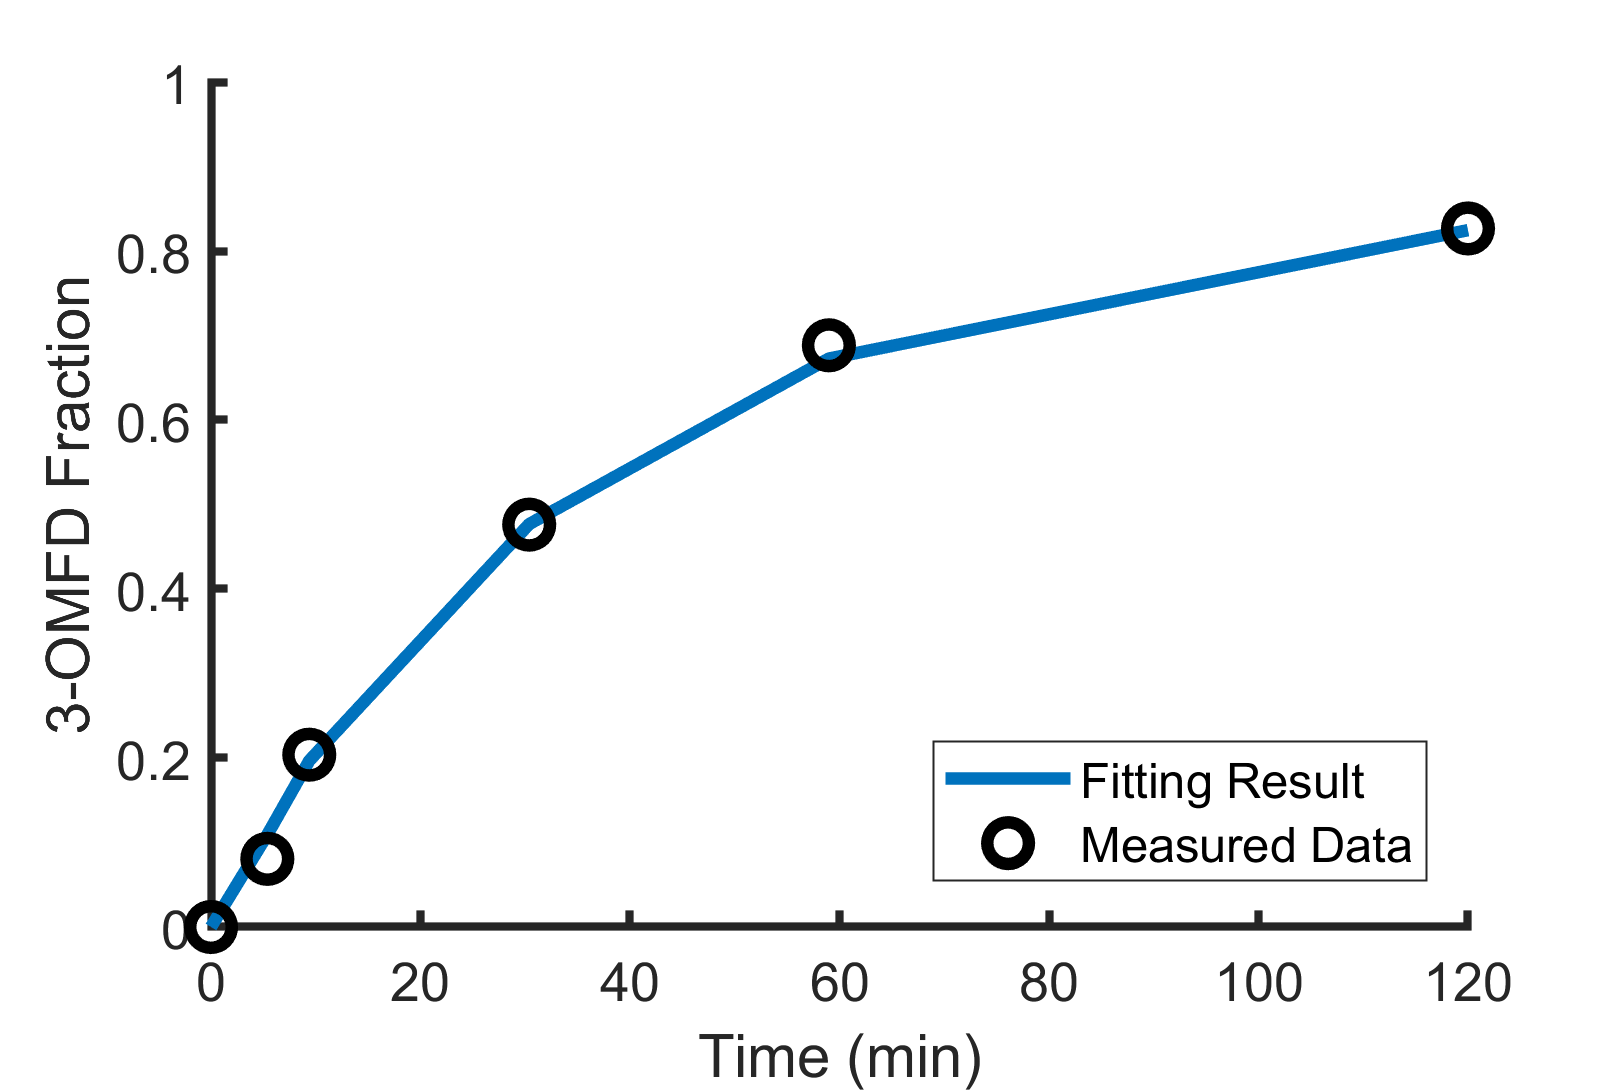
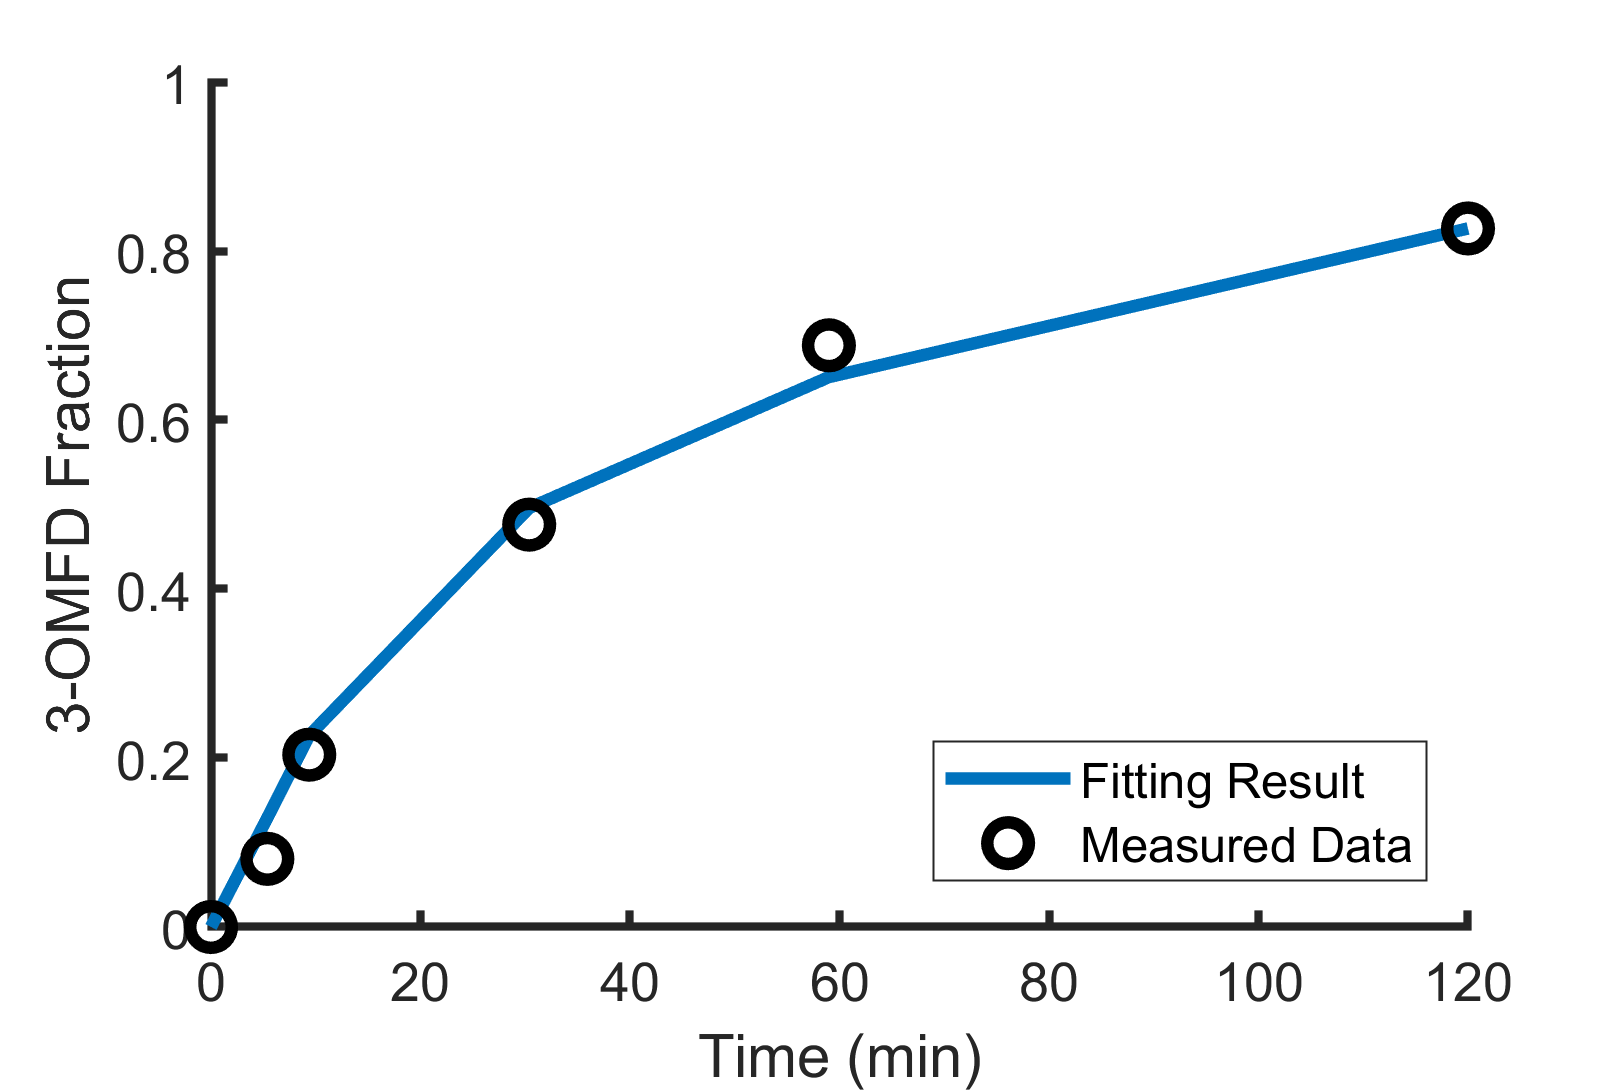
Small Figure changes, adding debug/loging output

diff --git a/swain_corban_huang.m b/swain_corban_huang.m
@@ -1,15 +1,30 @@
+%% IMPLEMENTATION OF HUANG, 1991
+% MATLAB implementation of the multi-compartment model of FDOPA activity in
+% the striatum as observed by PET. This model was originally concieved by
+% Sung-cheng Huang and coworkes [1]. Through the following code, figues, 4, 
+% 5, and 6B along with the underlying model are reproduced.
+% 
+% by Corban Swain
+% November 7 - 14, 2017
+% for 20.420 (MIT Class)
+%
+% 1. Huang, Sung-Cheng, et al. "Kinetics and modeling of L-6-[18F] 
+% fluoro-dopa in human positron emission tomographic studies." Journal of 
+% Cerebral Blood Flow & Metabolism 11.6 (1991): 898-913.
+%%
 function swain_corban_huang
-
 function main
-    cleanup; % close all;
+    cleanup; close all;
+    fprintf('Beginning Script...\n');
     corban_figure_defaults;
     figstosim = 4:6;
     for i = figstosim
-        fprintf('Running Figure %d\n', i);
+        fprintf('\nRunning Figure %d\n', i);
         fh = makefigure(figures{i}());
         figure(fh)
         savefig(fh);
     end
+    fprintf('Done!\n');
 end
 
 %% Global Variables
@@ -36,8 +51,9 @@ csv = importdata('tissue_radioactivity_cerebellum_FIG6.csv');
 Cc_fig6.t = csv.data(:, 1);
 Cc_fig6.y = csv.data(:, 2);
 
-t_templ = linspace(eps, 10, 50)';
-t_templ = [t_templ(1:(end - 1)); linspace(10, 120, 51)'];
+num = 60;
+t_templ = linspace(eps, 10, num)';
+t_templ = [t_templ(1:(end - 1)); linspace(10, 120, num + 1)'];
 %% Figures
 
 figures{4} = @fig4;
@@ -56,11 +72,15 @@ figures{4} = @fig4;
         if loadin && isfile(filename)
             load(filename, varname);            
         else
+            fprintf(['Beginnging Nonlinear Fit for 3-OMFD Reaction ', ...
+                'and Transport Coeffecients...\n']);
             fit_params = nlinfit(t, y, @modelfun, params0, getfitopts);
             fit_params = abs(fit_params);
             save(filename, varname);
         end
         clear varname filename;
+        fprintf('Fitted 3-OMFD Reaction Model Params [kb12 kb2 kb3]:\n');
+        disp(fit_params); 
         omfd_fit_params = fit_params;
         setupfig(fignum, 'Figure 4');
         tfit = omfdfrac_fig4.t + eps;
@@ -91,8 +111,8 @@ figures{5} = @fig5;
         Cfdopa = Cf18(t) - Comfd;
         Comfd_source = struct('t', t, 'y', Comfd);
         Cfd_source = struct('t', t, 'y', Cfdopa);
-%         t = t_templ;
-        t = Cf18_fig5.t + eps;
+        t = t_templ;
+%         t = Cf18_fig5.t + eps;
         Comfd = modelfun_omfd(fit_params, t, 1);
         Cfdopa = Cf18(t) - Comfd;
         ps.x = {Cf18_fig5.t, t, t};
@@ -127,6 +147,8 @@ figures{6} = @fig6;
             end
         else
             % Fitting Partition Coeffecients
+            fprintf(['Beginnging Nonlinear Fit for Plasma/Whole ', ...
+                'Blood Partition Coeffecients...\n']);
             part_coef0 = [1.01, 1.08];
             Cwb = @(p, t) abs(p(1)) * 0.6 * Cfd(t) + abs(p(2)) * Comfd(t);
             fit_part_coeff = nlinfit(Cf18_wb_fig3.t, Cf18_wb_fig3.y, ...
@@ -139,7 +161,8 @@ figures{6} = @fig6;
             end
         end
         clear filename varnames;
-        
+        fprintf('Fitted Partition Coeffeceints [p1 p2]:\n');
+        disp(fit_part_coeff);
         function [stri_activity, C] = modelfun_s(p, t)
             p = [p, 0];
             C = modelfun_striatum(p, t);
@@ -150,6 +173,7 @@ figures{6} = @fig6;
             cere_activity = sum(C, 2) + Cbackground(t);
         end
         
+
         varnames = {'fit_params', 't', 'y', 'modelfun'};
         filename = 'figure6_cache_2.mat';
         if loadin && isfile(filename)
@@ -158,6 +182,8 @@ figures{6} = @fig6;
             end
         else
             % Fitting Cerebellal and Striatal Activities
+            fprintf(['Beginnging Nonlinear Fits for Cerebellal ', ...
+                'and Striatal Activities...\n']);
             n = 1;
             t{n} = Cs_fig6.t; y{n} = Cs_fig6.y;
             modelfun{n} = @modelfun_s;
@@ -166,8 +192,7 @@ figures{6} = @fig6;
             t{n} = Cc_fig6.t; y{n} = Cc_fig6.y;
             modelfun{n} = @modelfun_c;
             params0{n} = [0.0352, 0.0569]; 
-            fit_params = cell(n, 1); tout = fit_params; 
-            ytot_out = tout; ycomp_out = tout;
+            fit_params = cell(n, 1);
             for i = 1:n
                 fit_params{i} = nlinfit(t{i}, y{i}, modelfun{i}, ...
                     params0{i}, getfitopts);
@@ -179,22 +204,31 @@ figures{6} = @fig6;
             end
         end
         clear filename varnames;
-        
-        for i = 1:length(fit_params)
-%             tout{i} = t_templ;
+        fprintf('Fitted STRIATAL Model Params [k1 k2 k3]:\n');
+        disp(fit_params{1});  
+        fprintf('Fitted CEREBELLAL Model Params [Kp1 kp2]:\n');
+        disp(fit_params{2});
+        n = length(fit_params);
+        tout = cell(n, 1); 
+        ytot_out = tout; ycomp_out = tout;
+        for i = 1:n
+            % QUESTION - Plots look weird with t_templ ... why?
             tout{i} = t{i} + eps;
-            [ytot_out{i},  ycomp_out{i}] ...
+            [ytot_out{i},  ~] ...
                 = modelfun{i}(fit_params{i}, tout{i});  
+            tout{i} = t_templ;
+            [~, ycomp_out{i}] ...
+                = modelfun{i}(fit_params{i}, tout{i});
         end
         
         % Preparing plot and figure
         ps.x{1} = t{1}; ps.y{1} = y{1}; % original striatal
         ps.x{2} = t{2}; ps.y{2} = y{2}; % original cerebral
-        ps.x{3} = tout{1}; ps.y{3} = ytot_out{1}; % fitted striatal
-        ps.x{4} = tout{2}; ps.y{4} = ytot_out{2}; % fitted cerebral
-        ps.x{5} = tout{1};
+        ps.x{3} = t{1} + eps; ps.y{3} = ytot_out{1}; % fitted striatal
+        ps.x{4} = t{2} + eps; ps.y{4} = ytot_out{2}; % fitted cerebral
+        ps.x{5} = t_templ;
         ps.y{5} = ycomp_out{1}(:,3); % 3-omfd
-        ps.x{6} = tout{1};
+        ps.x{6} = t_templ;
         ps.y{6} = sum(ycomp_out{1}(:,[1, 3]), 2); % 3-omfd + fdopa 
         ps.xlim = [0 120]; ps.ylim = [0 0.3];
         ps.grid = 'off';
@@ -205,7 +239,7 @@ figures{6} = @fig6;
             'Striatal 3-OMFD & FDOPA'};
         ps.legend_loc = 'northeastoutside';
         ps.cycle_len = 1;
-        ps.linespec =        {'ks','ko','-k','-k','--','--'};
+        ps.linespec =        {'ks','ko','-k','-k',':',':'};
         ps.markerfacecolor = {  'k','k', [], [],  [],  []};
         ps.markersize =      {   8,   8, [], [],  [],  []};
         ps.linewidth =       {   1,   1, [], [],  [],  []};
@@ -231,7 +265,8 @@ end
 %% Settings
 function fitopts = getfitopts
 fitopts = statset('RobustWgtFun', 'fair', ...
-    'Display', 'final');
+    'Display', 'final', ...
+    'DerivStep', eps .^ (1 / 3));
 end
 
 %% Data Interpolators
@@ -312,44 +347,37 @@ end
 
 %% Model Functions
 function opts = getodeopts(nvars)   
-tol = 1e-6;
+tol = 1e-9;
 opts = odeset('RelTol', tol,...
     'AbsTol',tol, ...
     'NonNegative', 1:nvars);    
 end
 
-function Y = modelfun_template(p, t, y_ind_out, nvars, odefun)
+function [Y, t] = modelfun_template(p, t, y_ind_out, nvars, odefun)
 tspan = t;
 y0 = zeros(1, nvars);
 odeopts = getodeopts(nvars);
-[~, y_out] = ode45(odefun, tspan, y0, odeopts, abs(p));
+[t, y_out] = ode45(odefun, tspan, y0, odeopts, abs(p));
 if isempty(y_ind_out); y_ind_out = 1:nvars; end
 Y = y_out(:, y_ind_out);
 end
 
-function Y = modelfun_striatum(p, t, y_ind_out)
+function [Y, t] = modelfun_striatum(p, t, y_ind_out)
 if nargin == 2; y_ind_out = []; end
-Y = modelfun_template(p, t, y_ind_out, 3, @odefun_striatum);
+[Y, t] = modelfun_template(p, t, y_ind_out, 3, @odefun_striatum);
 end
 
-function Y = modelfun_cerebellum(p, t, y_ind_out)
+function [Y, t] = modelfun_cerebellum(p, t, y_ind_out)
 if nargin == 2; y_ind_out = []; end
-Y = modelfun_template(p, t, y_ind_out, 2, @odefun_cerebellum);
+[Y, t] = modelfun_template(p, t, y_ind_out, 2, @odefun_cerebellum);
 end
 
-function Y = modelfun_omfd(p, t, y_ind_out)
+function [Y, t] = modelfun_omfd(p, t, y_ind_out)
 if nargin == 2; y_ind_out = []; end
-Y = modelfun_template(p, t, y_ind_out, 2, @odefun_omfd);
+[Y, t] = modelfun_template(p, t, y_ind_out, 2, @odefun_omfd);
 end
 
 %% Corban Swain Utilities
-function ret = NIL
-ret = "**NIL**";
-end
-
-function bool = isnil(x)    
-bool = (x == NIL);
-end
 
 function [val, S] = qgetfield(S, fieldname, default)
 if ~isfield(S, fieldname)
